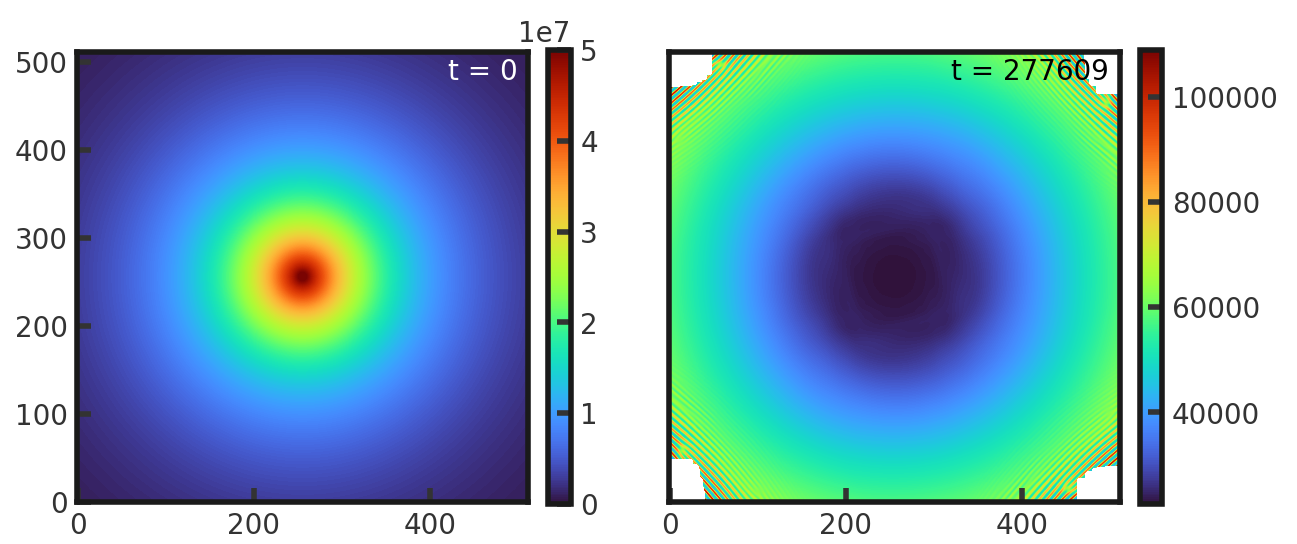
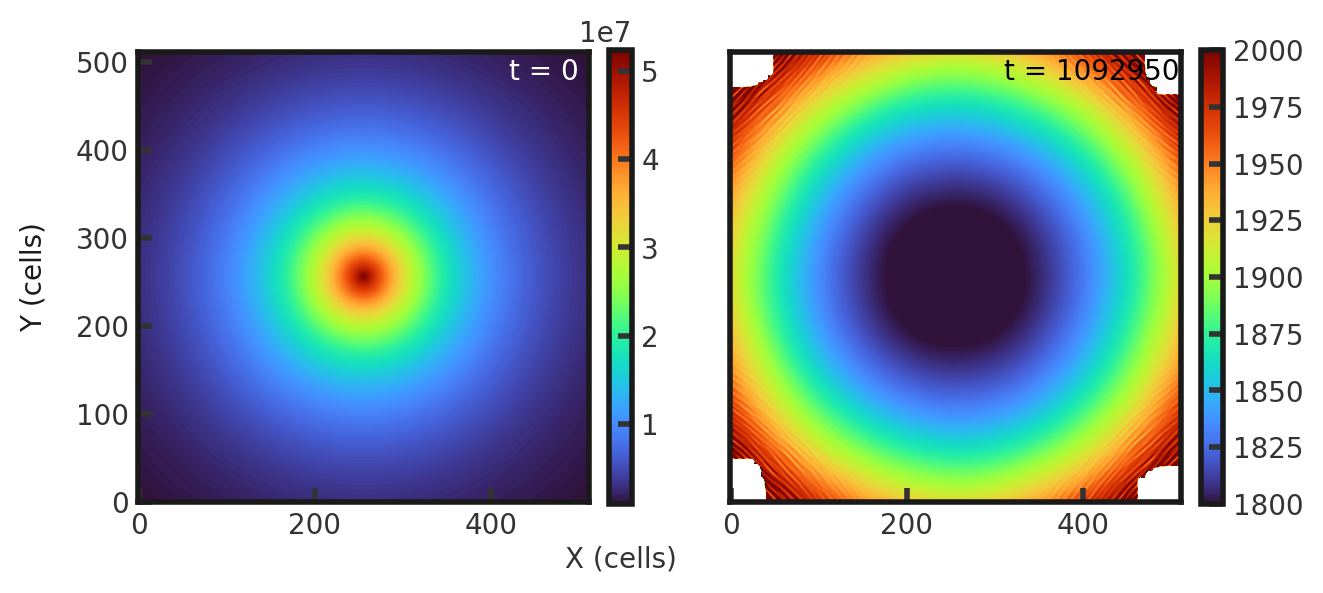
fixing disk

diff --git a/2d_disk.md b/2d_disk.md
@@ -40,5 +40,5 @@ zu_bcnd=3
 outdir=./
 ```
 Upon completion, you should obtain 501 output files. However, after the first ~54 snaps, I get the error: Thread crashed in final update. -nan -nan -nan. The simulation continues to run and output but with incomplete data. The initial and final density and pressure (in code units) is shown below. Examples of how to plot projections and slices can be found in `cholla/python_scripts/Projection_Slice_Tutorial.ipynb`.  
-<!---<img src="./images/2drayleigh-taylor_gravity_density_xy.png" width="1200" />  
-<img src="./images/2drayleigh-taylor_gravity_pressure_xy.png" width="1200" />  -->
+<img src="./images/2ddisk_density_xy.png" width="1200" />  
+<img src="./images/2ddisk_pressure_xy.png" width="1200" />  
